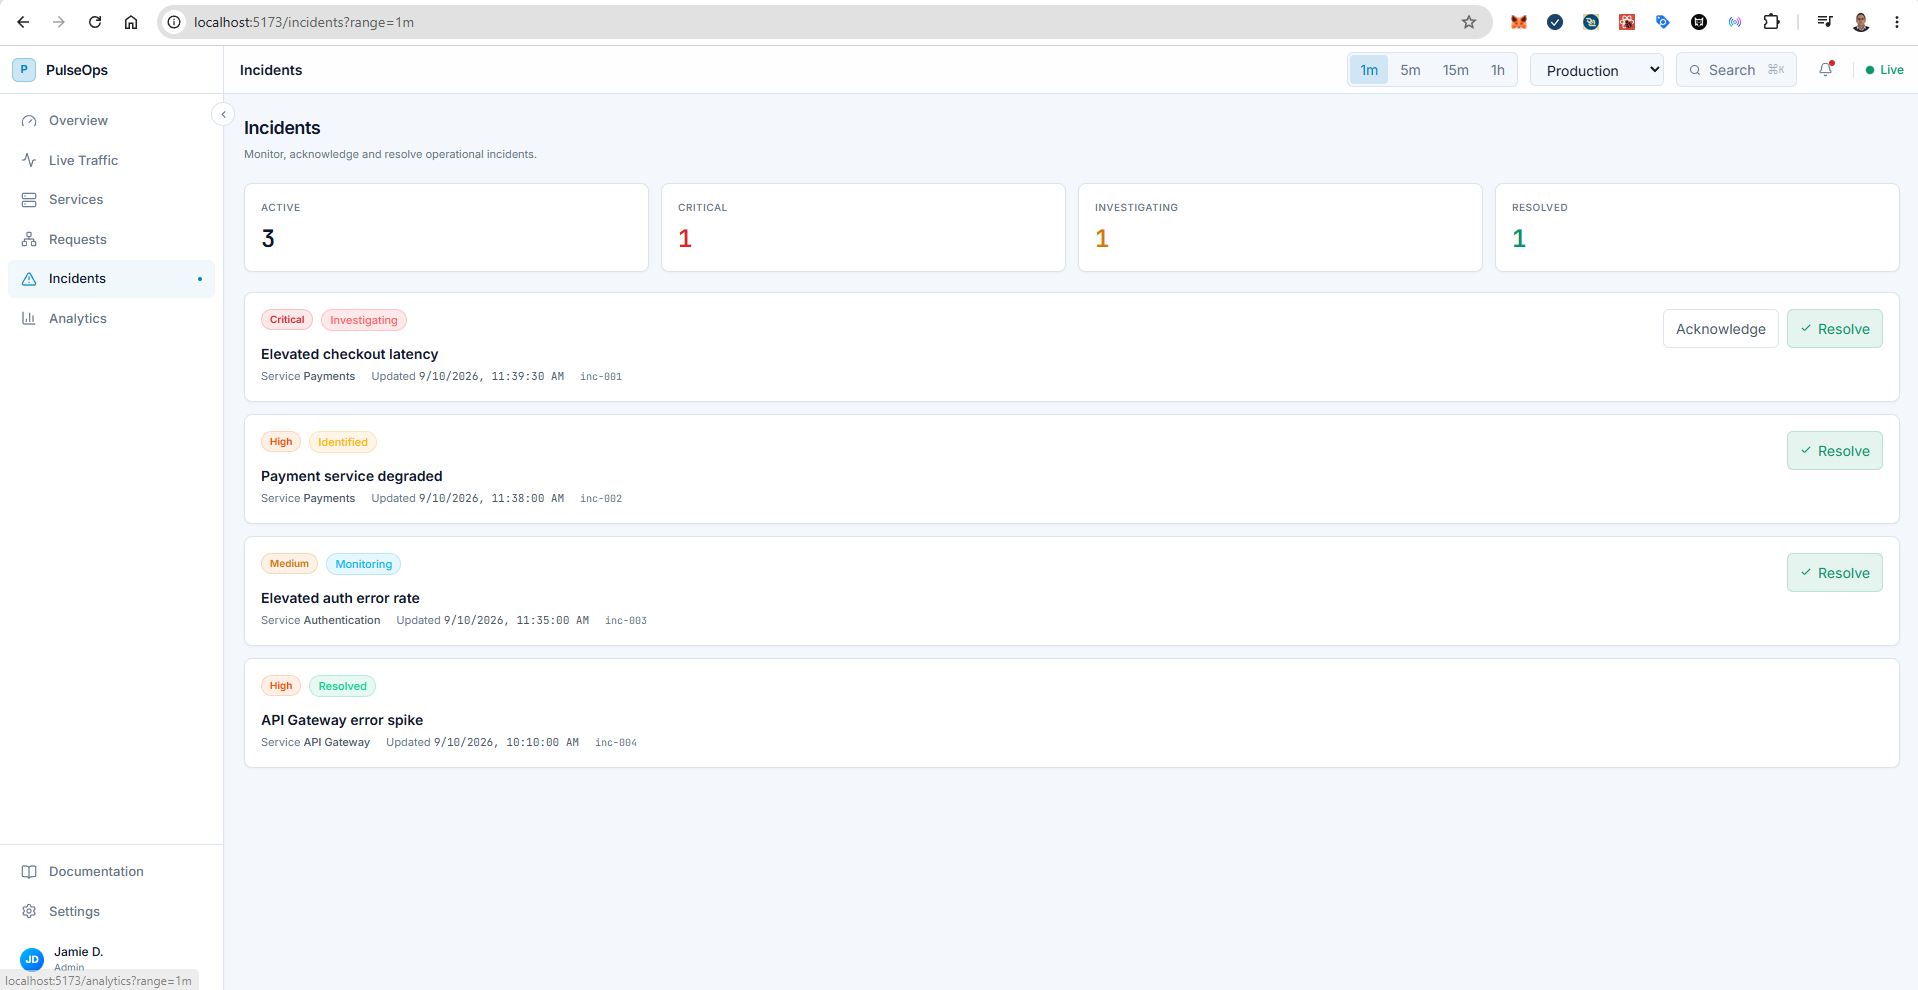
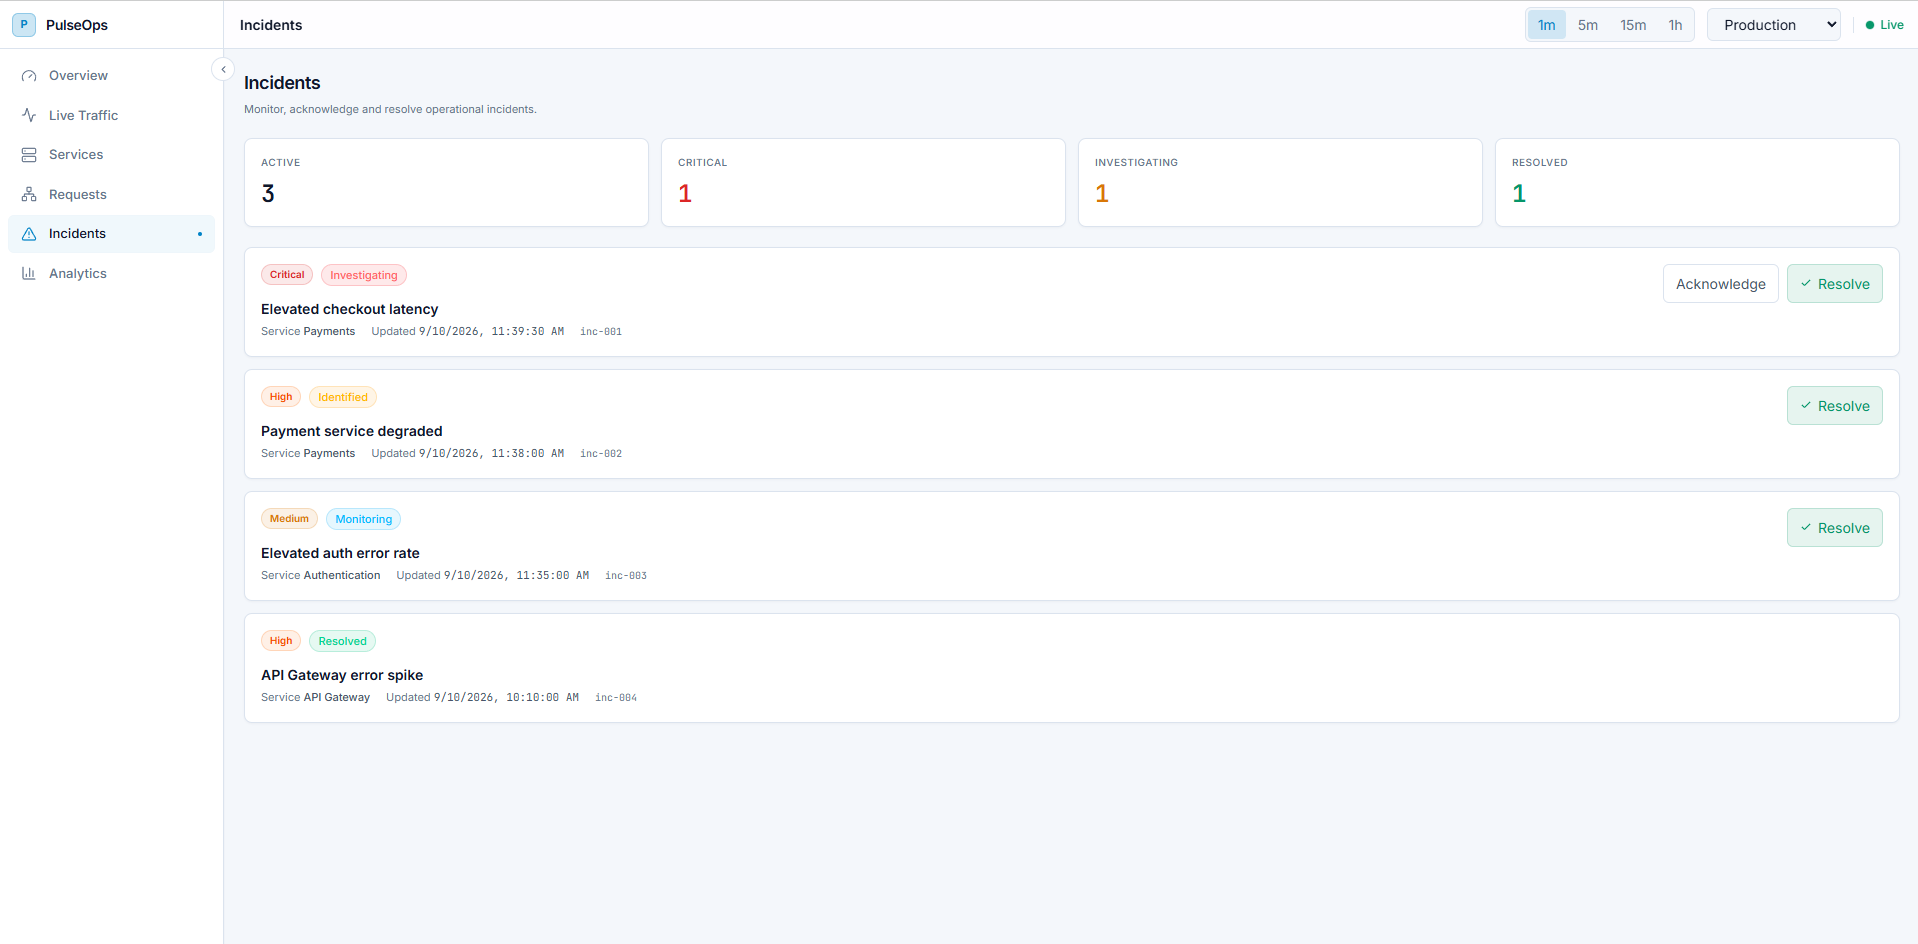
polish

diff --git a/src/app/layouts/Sidebar.tsx b/src/app/layouts/Sidebar.tsx
@@ -9,7 +9,6 @@ import {
 
 import {
   mainNavigation,
-  //secondaryNavigation,
   type NavigationItem,
 } from "@/app/navigation";
 import { cn } from "@/lib/utils";
@@ -126,44 +125,6 @@ export function Sidebar({
           />
         ))}
       </nav>
-
-      <div className="flex flex-col gap-0.5 border-t border-edge p-2">
-        {/* {secondaryNavigation.map((item) => (
-          <SidebarNavigationItem
-            key={item.path}
-            item={item}
-            collapsed={collapsed}
-            search={search}
-          />
-        ))} */}
-
-        <button
-          type="button"
-          className={cn(
-            "mt-1 flex items-center gap-2.5 rounded-md px-3 py-2",
-            "text-left transition-colors hover:bg-slate-900/3",
-            collapsed ? "justify-center" : "",
-          )}
-        >
-          <div className="flex size-6 shrink-0 items-center justify-center rounded-full bg-linear-to-br from-sky-400 to-blue-600">
-            <span className="text-[10px] font-bold text-white">
-              JD
-            </span>
-          </div>
-
-          {!collapsed && (
-            <div className="min-w-0">
-              <div className="truncate text-xs font-medium text-hi">
-                Jamie D.
-              </div>
-
-              <div className="truncate text-[10px] text-lo">
-                Admin
-              </div>
-            </div>
-          )}
-        </button>
-      </div>
 
       {showCollapseButton &&
         onCollapsedChange && (

diff --git a/src/app/layouts/Topbar.tsx b/src/app/layouts/Topbar.tsx
@@ -1,7 +1,5 @@
 import {
-  //Bell,
   Menu,
-  //Search,
 } from "lucide-react";
 
 import { ConnectionIndicator } from "@/components/ui/ConnectionIndicator";
@@ -101,37 +99,6 @@ export function Topbar({
           ),
         )}
       </select>
-
-      {/* <button
-        type="button"
-        aria-label="Search"
-        className={cn(
-          "hidden items-center gap-2 rounded-md border border-edge bg-bg",
-          "px-3 py-1.5 text-xs text-lo transition-colors",
-          "hover:border-mid/40 hover:text-mid xl:flex",
-        )}
-      >
-        <Search size={12} />
-
-        <span>Search</span>
-
-        <kbd className="ml-1 font-mono text-[10px] text-lo/60">
-          ⌘K
-        </kbd>
-      </button>
-
-      <button
-        type="button"
-        aria-label="Notifications"
-        className="relative flex size-8 items-center justify-center rounded-md text-lo transition-colors hover:bg-slate-900/4 hover:text-mid"
-      >
-        <Bell
-          size={15}
-          strokeWidth={1.75}
-        />
-
-        <span className="absolute right-1.5 top-1.5 size-1.5 rounded-full bg-err" />
-      </button> */}
 
       <div className="border-l border-edge pl-3">
         <ConnectionIndicator

diff --git a/src/app/layouts/MobileNavigation.tsx b/src/app/layouts/MobileNavigation.tsx
@@ -6,7 +6,6 @@ import {
 
 import {
   mainNavigation,
-  //secondaryNavigation,
   type NavigationItem,
 } from "@/app/navigation";
 import { cn } from "@/lib/utils";
@@ -128,17 +127,6 @@ export function MobileNavigation({
         </nav>
 
         <div className="border-t border-edge p-2">
-          {/* {secondaryNavigation.map(
-            (item) => (
-              <MobileNavigationItem
-                key={item.path}
-                item={item}
-                search={search}
-                onClose={onClose}
-              />
-            ),
-          )} */}
-
           <div className="mt-2 flex items-center gap-2.5 border-t border-edge px-3 pt-3">
             <div className="flex size-7 items-center justify-center rounded-full bg-linear-to-br from-sky-400 to-blue-600">
               <span className="text-[10px] font-bold text-white">

diff --git a/index.html b/index.html
@@ -1,13 +1,23 @@
 <!doctype html>
 <html lang="en">
-  <head>
-    <meta charset="UTF-8" />
-    <link rel="icon" type="image/svg+xml" href="/favicon.svg" />
-    <meta name="viewport" content="width=device-width, initial-scale=1.0" />
-    <title>pulseops</title>
-  </head>
-  <body>
-    <div id="root"></div>
-    <script type="module" src="/src/main.tsx"></script>
-  </body>
+
+<head>
+  <meta charset="UTF-8" />
+
+  <meta name="viewport" content="width=device-width, initial-scale=1.0" />
+
+  <meta name="description"
+    content="PulseOps — real-time operations monitoring dashboard built with React, TypeScript, TanStack Query and WebSockets." />
+
+  <title>
+    PulseOps — Real-time Operations Dashboard
+  </title>
+</head>
+
+<body>
+  <div id="root"></div>
+
+  <script type="module" src="/src/main.tsx"></script>
+</body>
+
 </html>

diff --git a/src/app/router.tsx b/src/app/router.tsx
@@ -91,30 +91,6 @@ export const router = createBrowserRouter([
         },
       },
 
-      // {
-      //   path: "docs",
-      //   lazy: {
-      //     Component: async () =>
-      //       (
-      //         await import(
-      //           "@/features/documentation/components/DocumentationPage"
-      //         )
-      //       ).DocumentationPage,
-      //   },
-      // },
-
-      // {
-      //   path: "settings",
-      //   lazy: {
-      //     Component: async () =>
-      //       (
-      //         await import(
-      //           "@/features/settings/components/SettingsPage"
-      //         )
-      //       ).SettingsPage,
-      //   },
-      // },
-
       {
         path: "*",
         lazy: {

diff --git a/src/app/navigation.ts b/src/app/navigation.ts
@@ -1,11 +1,9 @@
 import {
   Activity,
   BarChart3,
-  //BookOpen,
   Gauge,
   Network,
   Server,
-  //Settings,
   TriangleAlert,
   type LucideIcon,
 } from "lucide-react";
@@ -49,23 +47,7 @@ export const mainNavigation: NavigationItem[] = [
   },
 ];
 
-// export const secondaryNavigation: NavigationItem[] = [
-//   {
-//     label: "Documentation",
-//     path: "/docs",
-//     icon: BookOpen,
-//   },
-//   {
-//     label: "Settings",
-//     path: "/settings",
-//     icon: Settings,
-//   },
-// ];
-
-export const navigation = [
-  ...mainNavigation,
-  //...secondaryNavigation,
-];
+export const navigation = [...mainNavigation];
 
 export function getPageTitle(
   pathname: string,
